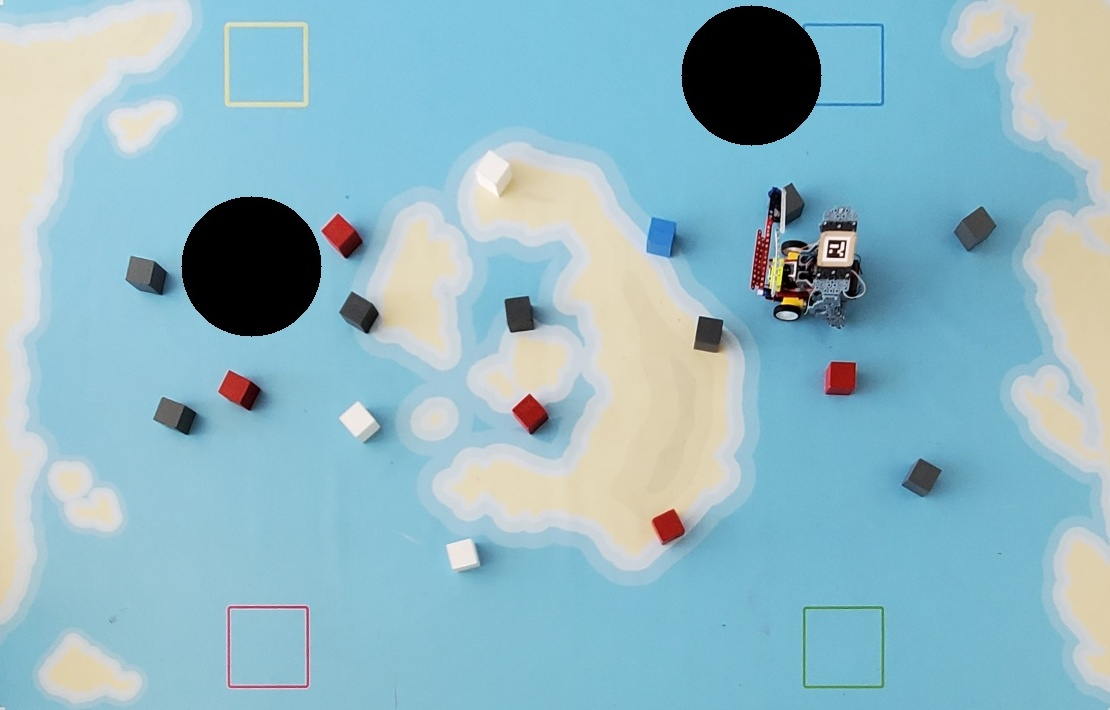
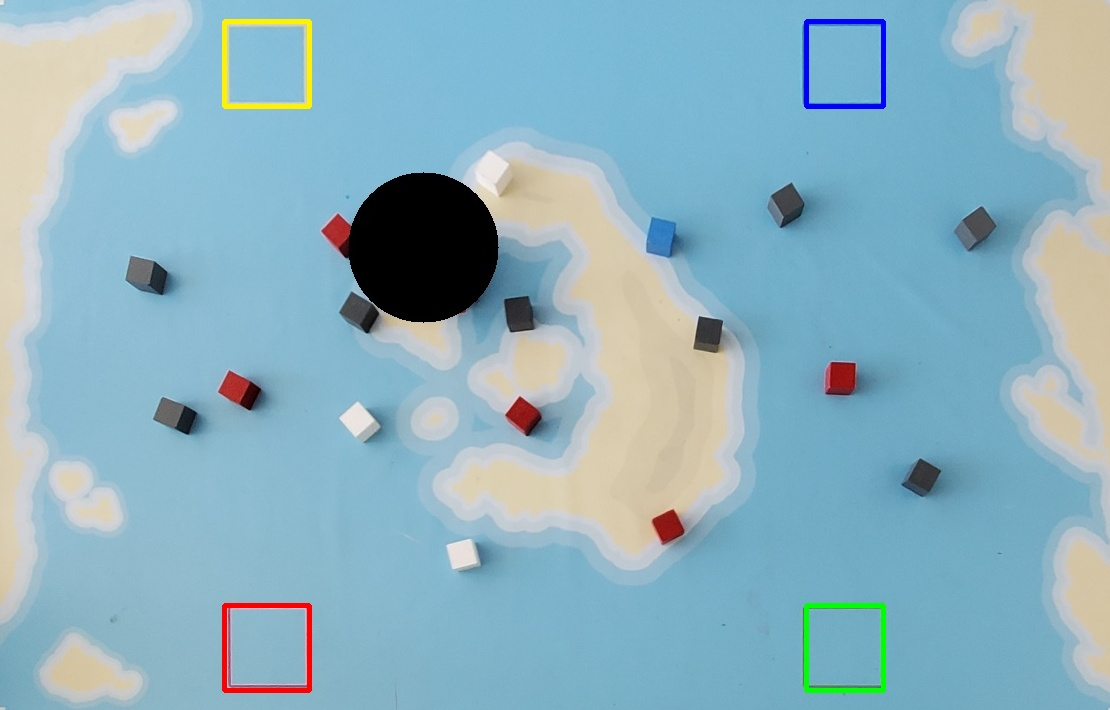
Transfert sur grille avec fond blanc et amélioration de certaines parties

diff --git a/pythonProject/main.py b/pythonProject/main.py
@@ -38,6 +38,58 @@ def get_mean_bgr(image, center):
     mean_bgr = cv2.mean(bgr_image, mask=circle_mask)[:3]
     return tuple(map(round, mean_bgr))
 
+def color_boxes_with_masks(grid_img, masks):
+
+    img_with_colored_boxes = grid_img.copy()
+
+    # Define colors for each mask type
+    colors = {
+        'blue': (255, 0, 0),   # Blue color for the blue mask
+        'red': (0, 0, 255),    # Red color for the red mask
+        'grey': (200, 200, 200),  # Grey color for the grey mask
+        'white': (0, 214, 16),  # Pink color for the white mask
+        'black': (0, 0, 0)
+    }
+
+    # Iterate over each grid cell
+    square_size = 16  # Size of each square in pixels
+    for y in range(0, img_with_colored_boxes.shape[0], square_size):
+        for x in range(0, img_with_colored_boxes.shape[1], square_size):
+            # Check if any mask has a non-zero value within the current grid cell
+            mask_color = (255, 255, 255)  # Default color if no mask is present
+            for mask_name, mask in masks.items():
+                if np.any(mask[y:y+square_size, x:x+square_size]):
+                    # If any mask has a non-zero value, color the box with the corresponding color
+                    mask_color = colors[mask_name]
+                    break
+            # Color each box
+            cv2.rectangle(img_with_colored_boxes, (x, y), (x + square_size, y + square_size), mask_color, -1)
+
+    return img_with_colored_boxes
+
+def remove_small_color_groups(img_with_colored_boxes):
+    square_size = 16  # Size of each square in pixels
+
+    # Copy the image
+    img_with_filtered_color_groups = img_with_colored_boxes.copy()
+
+    # Check neighbors and change color to white if less than 3 neighbors of the same color
+    for y in range(square_size, img_with_colored_boxes.shape[0] - square_size, square_size):
+        for x in range(square_size, img_with_colored_boxes.shape[1] - square_size, square_size):
+            current_color = img_with_colored_boxes[y, x]
+
+            # Count number of neighboring boxes with the same color
+            same_color_neighbors = 0
+            for dy in range(-square_size, square_size + 1, square_size):
+                for dx in range(-square_size, square_size + 1, square_size):
+                    if (dy != 0 or dx != 0) and np.all(img_with_colored_boxes[y+dy, x+dx] == current_color):
+                        same_color_neighbors += 1
+
+            # If less than 3 neighbors of the same color, change color to white
+            if same_color_neighbors < 3:
+                cv2.rectangle(img_with_filtered_color_groups, (x, y), (x+square_size, y+square_size), (255, 255, 255), -1)
+
+    return img_with_filtered_color_groups
 
 # 0 for camera, 1 for photos
 TEST = 1
@@ -71,7 +123,7 @@ nbImages = len(nomImages)
 
 frame = cv2.imread(nomImages[0])
 
-cpt = 11
+cpt = 2
 
 while True:
     if TEST == 0:
@@ -111,7 +163,7 @@ while True:
         dst = cv2.warpPerspective(frame, M, final_size)
 
         RB = 132
-        tailleRB = 70
+        tailleRB = 75
         # Saving the images to a file
         cv2.imwrite("Images\Frame.jpg", frame)
         cv2.imwrite("Images\Transformed_image.jpg", dst)
@@ -182,7 +234,7 @@ while True:
                     direction_vector = direction_vector / np.linalg.norm(direction_vector)
 
                     # Vector Length
-                    taille_ligne = 50
+                    taille_ligne = 60
 
                     # Calculate final points for the vector
                     new_point1 = (int(start_point[0]), int(start_point[1]))
@@ -215,18 +267,25 @@ while True:
         # Crop the image
         cropped_image = image[top:bottom, left:right]
 
+        # Draw the zones
+        cv2.rectangle(cropped_image, (224, 605), (309, 690), (0, 0, 255), 3)  # Red zone
+        cv2.rectangle(cropped_image, (806, 21), (883, 106), (255, 0, 0), 3)  # Blue zone
+        cv2.rectangle(cropped_image, (806, 605), (883, 690), (0, 255, 0), 3)  # Green zone
+        cv2.rectangle(cropped_image, (224, 21), (309, 106), (0, 242, 255), 3)  # Yellow zone
+
         # Save the cropped image
         cv2.imwrite("Images/cropped_frame.jpg", cropped_image)
 
         # Adding a Grid
         square_size = 16  # Size of each square in pixels
         grid_img = dst.copy()
+        cv2.rectangle(grid_img, (0, 0), final_size, (255, 255, 255), -1)
         grid_img = Grid.add_grid(grid_img, square_size)
 
         # Displaying different results
         cv2.imshow('Hitbox', dst)
         cv2.imshow('Cropped image', cropped_image)
-        '''cv2.imshow('Grid', grid_img)'''
+        cv2.imshow('Grid', grid_img)
 
         img_copy = dst.copy()
 
@@ -300,7 +359,15 @@ while True:
                 grey_mask = cv2.inRange(cropped_image, bound_lower, bound_upper)
 
         kernel = np.ones((7, 7), np.uint8)
+
+        black_mask = cv2.inRange(cropped_image, (0, 0, 0), (1, 1, 1))
+
         # Definition and displaying of different masks
+        black_mask = cv2.morphologyEx(black_mask, cv2.MORPH_CLOSE, kernel)
+        black_mask = cv2.morphologyEx(black_mask, cv2.MORPH_OPEN, kernel)
+
+        display_black_mask = cv2.bitwise_and(cropped_image, cropped_image, mask=black_mask)
+
         blue_mask = cv2.morphologyEx(blue_mask, cv2.MORPH_CLOSE, kernel)
         blue_mask = cv2.morphologyEx(blue_mask, cv2.MORPH_OPEN, kernel)
 
@@ -325,21 +392,30 @@ while True:
         white_mask = cv2.morphologyEx(white_mask, cv2.MORPH_OPEN, kernel)
 
         display_white_mask = cv2.bitwise_and(cropped_image, cropped_image, mask=white_mask)
+        # Making a new red mask out of magenta and red
+        red_mask = cv2.bitwise_or(magenta_mask, red_mask)
+
+        # Display the blended mask
+        display_red_mask = cv2.bitwise_and(cropped_image, cropped_image, mask=red_mask)
 
         cv2.imshow("Blue mask", display_blue_mask)
-        cv2.imshow("Magenta mask", display_magenta_mask)
         cv2.imshow("Red mask", display_red_mask)
         cv2.imshow("Grey mask", display_grey_mask)
         cv2.imshow("White mask", display_white_mask)
 
-        # Superimpose the two masks on the black background
-        superimposed_img = cv2.bitwise_or(red_mask, magenta_mask)
+        # Combine all masks into a dictionary with mask names as keys
+        all_masks = {
+            'blue': blue_mask,
+            'red': red_mask,
+            'grey': grey_mask,
+            'white': white_mask,
+            'black': black_mask
+        }
 
-        # Invert the superimposed image to get original colors
-        inverted_img = cv2.bitwise_not(superimposed_img)
-
-        # Display the superimposed image
-        cv2.imshow("Superimposed Image", inverted_img)
+        # Apply the function to color the boxes
+        img_with_colored_boxes = color_boxes_with_masks(cropped_image, all_masks)
+        img_with_colored_boxes_corrected = remove_small_color_groups(img_with_colored_boxes)
+        cv2.imshow("Colored grid", img_with_colored_boxes_corrected)
     if cv2.waitKey(1) & 0xFF == ord('q'):
         break
 
